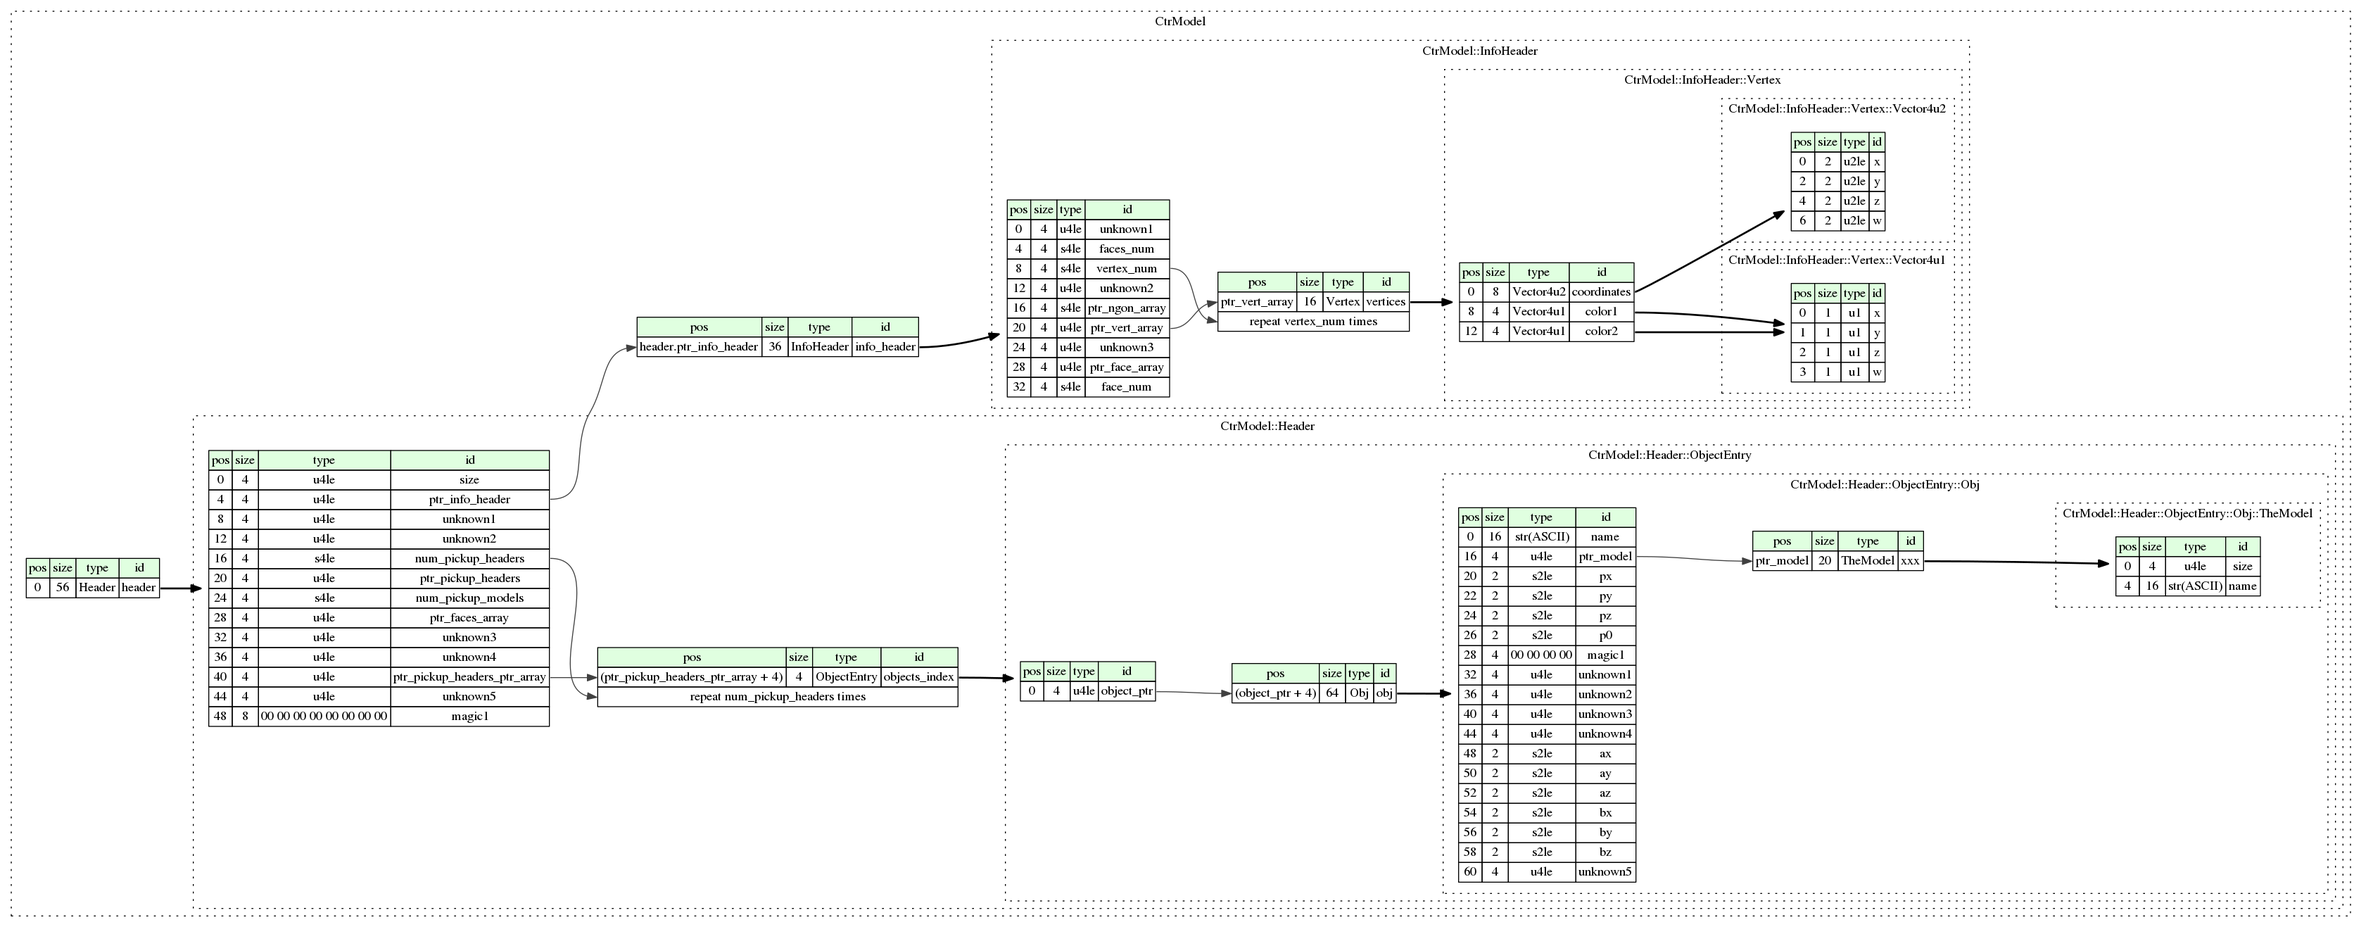
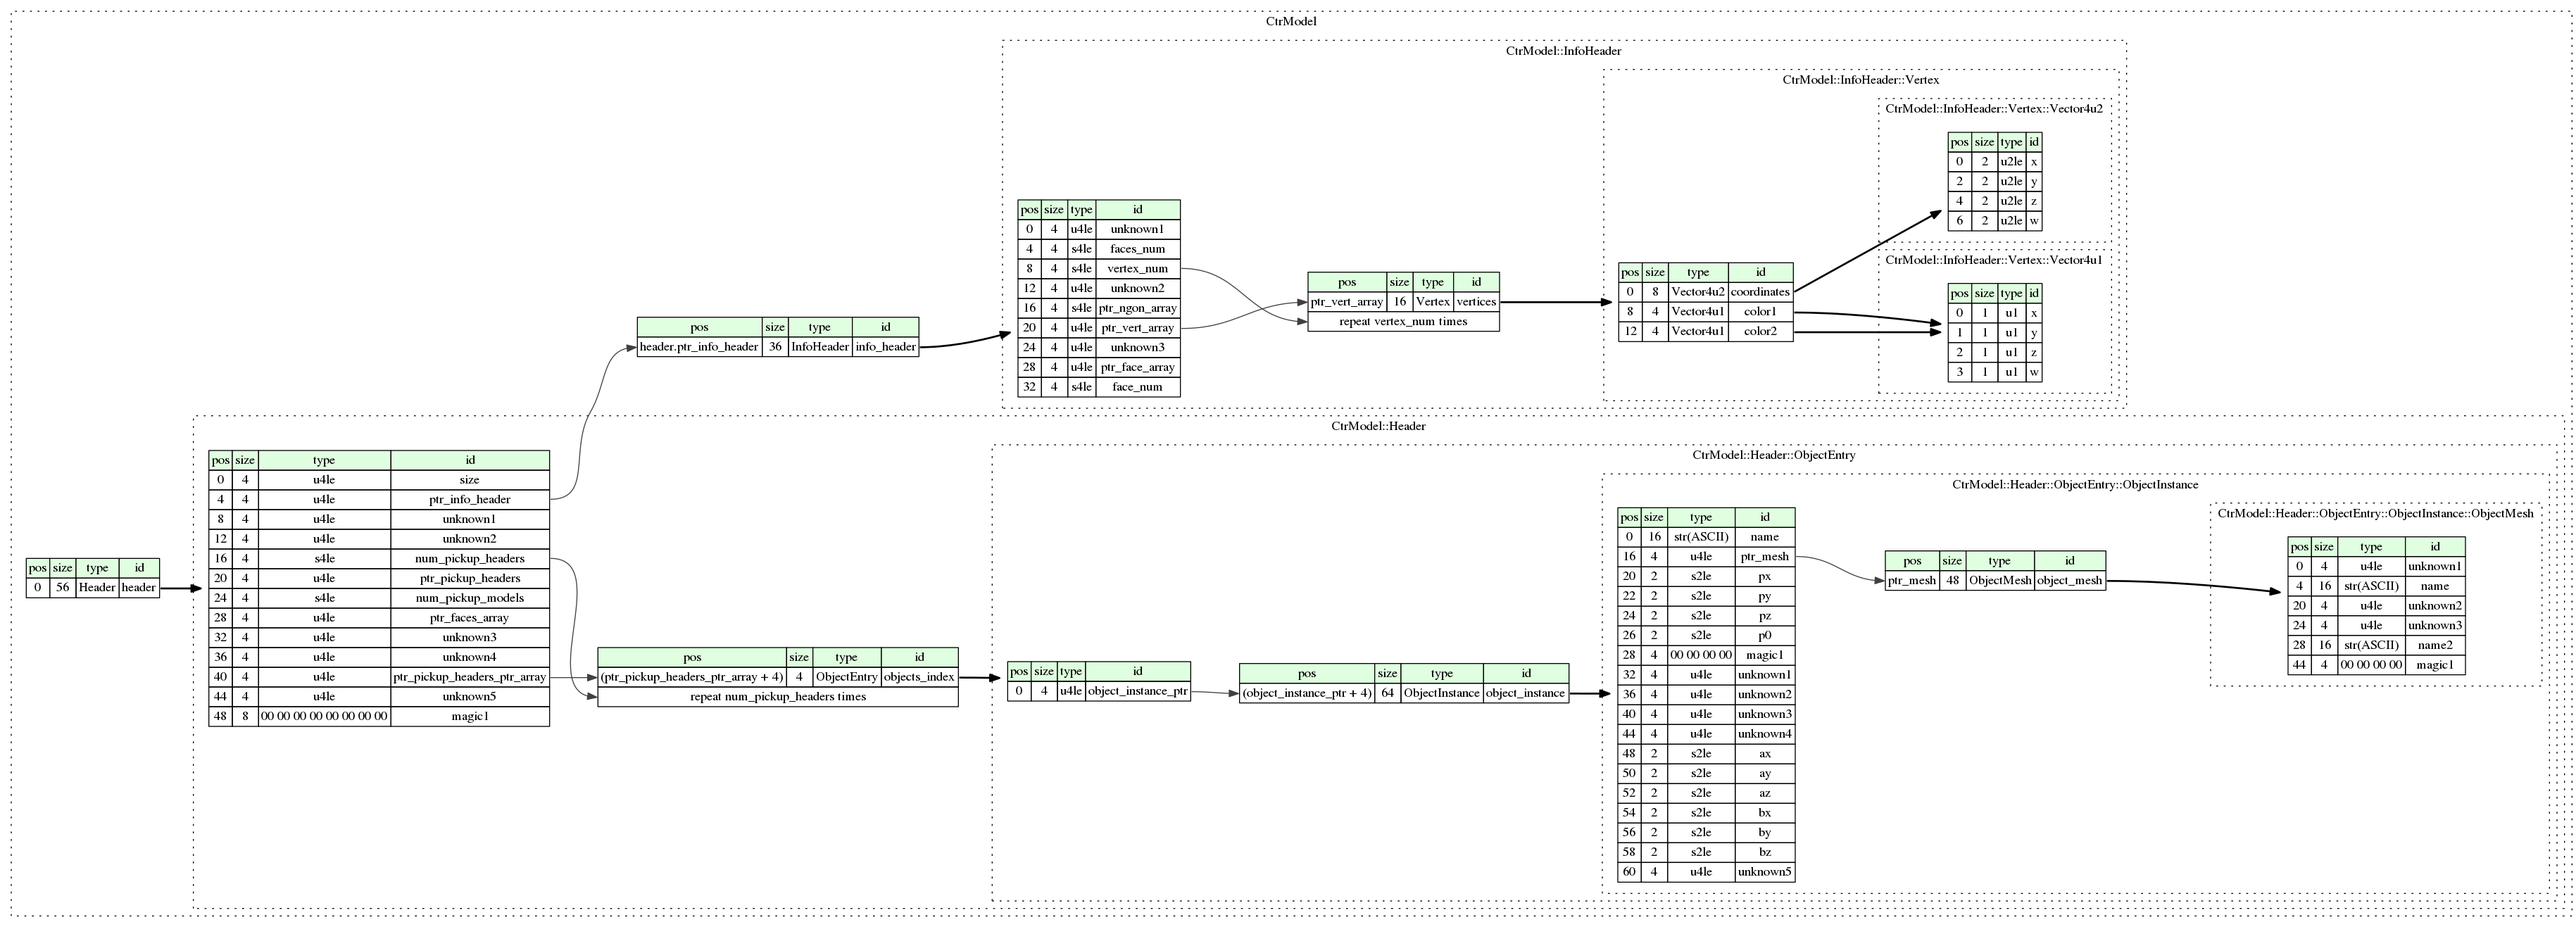
better names

diff --git a/csharp/ctr/CtrModel.cs b/csharp/ctr/CtrModel.cs
@@ -70,31 +70,31 @@ namespace ctr
                 {
                     m_parent = p__parent;
                     m_root = p__root;
-                    f_obj = false;
+                    f_objectInstance = false;
                     _read();
                 }
                 private void _read()
                 {
-                    _objectPtr = m_io.ReadU4le();
+                    _objectInstancePtr = m_io.ReadU4le();
                 }
-                public partial class Obj : KaitaiStruct
+                public partial class ObjectInstance : KaitaiStruct
                 {
-                    public static Obj FromFile(string fileName)
+                    public static ObjectInstance FromFile(string fileName)
                     {
-                        return new Obj(new KaitaiStream(fileName));
+                        return new ObjectInstance(new KaitaiStream(fileName));
                     }
 
-                    public Obj(KaitaiStream p__io, CtrModel.Header.ObjectEntry p__parent = null, CtrModel p__root = null) : base(p__io)
+                    public ObjectInstance(KaitaiStream p__io, CtrModel.Header.ObjectEntry p__parent = null, CtrModel p__root = null) : base(p__io)
                     {
                         m_parent = p__parent;
                         m_root = p__root;
-                        f_xxx = false;
+                        f_objectMesh = false;
                         _read();
                     }
                     private void _read()
                     {
                         _name = System.Text.Encoding.GetEncoding("ASCII").GetString(m_io.ReadBytes(16));
-                        _ptrModel = m_io.ReadU4le();
+                        _ptrMesh = m_io.ReadU4le();
                         _px = m_io.ReadS2le();
                         _py = m_io.ReadS2le();
                         _pz = m_io.ReadS2le();
@@ -112,14 +112,14 @@ namespace ctr
                         _bz = m_io.ReadS2le();
                         _unknown5 = m_io.ReadU4le();
                     }
-                    public partial class TheModel : KaitaiStruct
+                    public partial class ObjectMesh : KaitaiStruct
                     {
-                        public static TheModel FromFile(string fileName)
+                        public static ObjectMesh FromFile(string fileName)
                         {
-                            return new TheModel(new KaitaiStream(fileName));
+                            return new ObjectMesh(new KaitaiStream(fileName));
                         }
 
-                        public TheModel(KaitaiStream p__io, CtrModel.Header.ObjectEntry.Obj p__parent = null, CtrModel p__root = null) : base(p__io)
+                        public ObjectMesh(KaitaiStream p__io, CtrModel.Header.ObjectEntry.ObjectInstance p__parent = null, CtrModel p__root = null) : base(p__io)
                         {
                             m_parent = p__parent;
                             m_root = p__root;
@@ -127,36 +127,48 @@ namespace ctr
                         }
                         private void _read()
                         {
-                            _size = m_io.ReadU4le();
+                            _unknown1 = m_io.ReadU4le();
                             _name = System.Text.Encoding.GetEncoding("ASCII").GetString(m_io.ReadBytes(16));
+                            _unknown2 = m_io.ReadU4le();
+                            _unknown3 = m_io.ReadU4le();
+                            _name2 = System.Text.Encoding.GetEncoding("ASCII").GetString(m_io.ReadBytes(16));
+                            _magic1 = m_io.EnsureFixedContents(new byte[] { 0, 0, 0, 0 });
                         }
-                        private uint _size;
+                        private uint _unknown1;
                         private string _name;
+                        private uint _unknown2;
+                        private uint _unknown3;
+                        private string _name2;
+                        private byte[] _magic1;
                         private CtrModel m_root;
-                        private CtrModel.Header.ObjectEntry.Obj m_parent;
-                        public uint Size { get { return _size; } }
+                        private CtrModel.Header.ObjectEntry.ObjectInstance m_parent;
+                        public uint Unknown1 { get { return _unknown1; } }
                         public string Name { get { return _name; } }
+                        public uint Unknown2 { get { return _unknown2; } }
+                        public uint Unknown3 { get { return _unknown3; } }
+                        public string Name2 { get { return _name2; } }
+                        public byte[] Magic1 { get { return _magic1; } }
                         public CtrModel M_Root { get { return m_root; } }
-                        public CtrModel.Header.ObjectEntry.Obj M_Parent { get { return m_parent; } }
+                        public CtrModel.Header.ObjectEntry.ObjectInstance M_Parent { get { return m_parent; } }
                     }
-                    private bool f_xxx;
-                    private TheModel _xxx;
-                    public TheModel Xxx
+                    private bool f_objectMesh;
+                    private ObjectMesh _objectMesh;
+                    public ObjectMesh ObjectMesh
                     {
                         get
                         {
-                            if (f_xxx)
-                                return _xxx;
+                            if (f_objectMesh)
+                                return _objectMesh;
                             long _pos = m_io.Pos;
-                            m_io.Seek(PtrModel);
-                            _xxx = new TheModel(m_io, this, m_root);
+                            m_io.Seek(PtrMesh);
+                            _objectMesh = new ObjectMesh(m_io, this, m_root);
                             m_io.Seek(_pos);
-                            f_xxx = true;
-                            return _xxx;
+                            f_objectMesh = true;
+                            return _objectMesh;
                         }
                     }
                     private string _name;
-                    private uint _ptrModel;
+                    private uint _ptrMesh;
                     private short _px;
                     private short _py;
                     private short _pz;
@@ -176,7 +188,7 @@ namespace ctr
                     private CtrModel m_root;
                     private CtrModel.Header.ObjectEntry m_parent;
                     public string Name { get { return _name; } }
-                    public uint PtrModel { get { return _ptrModel; } }
+                    public uint PtrMesh { get { return _ptrMesh; } }
                     public short Px { get { return _px; } }
                     public short Py { get { return _py; } }
                     public short Pz { get { return _pz; } }
@@ -196,26 +208,26 @@ namespace ctr
                     public CtrModel M_Root { get { return m_root; } }
                     public CtrModel.Header.ObjectEntry M_Parent { get { return m_parent; } }
                 }
-                private bool f_obj;
-                private Obj _obj;
-                public Obj Obj
+                private bool f_objectInstance;
+                private ObjectInstance _objectInstance;
+                public ObjectInstance ObjectInstance
                 {
                     get
                     {
-                        if (f_obj)
-                            return _obj;
+                        if (f_objectInstance)
+                            return _objectInstance;
                         long _pos = m_io.Pos;
-                        m_io.Seek((ObjectPtr + 4));
-                        _obj = new Obj(m_io, this, m_root);
+                        m_io.Seek((ObjectInstancePtr + 4));
+                        _objectInstance = new ObjectInstance(m_io, this, m_root);
                         m_io.Seek(_pos);
-                        f_obj = true;
-                        return _obj;
+                        f_objectInstance = true;
+                        return _objectInstance;
                     }
                 }
-                private uint _objectPtr;
+                private uint _objectInstancePtr;
                 private CtrModel m_root;
                 private CtrModel.Header m_parent;
-                public uint ObjectPtr { get { return _objectPtr; } }
+                public uint ObjectInstancePtr { get { return _objectInstancePtr; } }
                 public CtrModel M_Root { get { return m_root; } }
                 public CtrModel.Header M_Parent { get { return m_parent; } }
             }

diff --git a/python/ctr/ctr_model.py b/python/ctr/ctr_model.py
@@ -51,9 +51,9 @@ class CtrModel(KaitaiStruct):
                 self._read()
 
             def _read(self):
-                self.object_ptr = self._io.read_u4le()
+                self.object_instance_ptr = self._io.read_u4le()
 
-            class Obj(KaitaiStruct):
+            class ObjectInstance(KaitaiStruct):
                 def __init__(self, _io, _parent=None, _root=None):
                     self._io = _io
                     self._parent = _parent
@@ -62,7 +62,7 @@ class CtrModel(KaitaiStruct):
 
                 def _read(self):
                     self.name = (self._io.read_bytes(16)).decode(u"ASCII")
-                    self.ptr_model = self._io.read_u4le()
+                    self.ptr_mesh = self._io.read_u4le()
                     self.px = self._io.read_s2le()
                     self.py = self._io.read_s2le()
                     self.pz = self._io.read_s2le()
@@ -80,7 +80,7 @@ class CtrModel(KaitaiStruct):
                     self.bz = self._io.read_s2le()
                     self.unknown5 = self._io.read_u4le()
 
-                class TheModel(KaitaiStruct):
+                class ObjectMesh(KaitaiStruct):
                     def __init__(self, _io, _parent=None, _root=None):
                         self._io = _io
                         self._parent = _parent
@@ -88,32 +88,36 @@ class CtrModel(KaitaiStruct):
                         self._read()
 
                     def _read(self):
-                        self.size = self._io.read_u4le()
+                        self.unknown1 = self._io.read_u4le()
                         self.name = (self._io.read_bytes(16)).decode(u"ASCII")
+                        self.unknown2 = self._io.read_u4le()
+                        self.unknown3 = self._io.read_u4le()
+                        self.name2 = (self._io.read_bytes(16)).decode(u"ASCII")
+                        self.magic1 = self._io.ensure_fixed_contents(b"\x00\x00\x00\x00")
 
 
                 @property
-                def xxx(self):
-                    if hasattr(self, '_m_xxx'):
-                        return self._m_xxx if hasattr(self, '_m_xxx') else None
+                def object_mesh(self):
+                    if hasattr(self, '_m_object_mesh'):
+                        return self._m_object_mesh if hasattr(self, '_m_object_mesh') else None
 
                     _pos = self._io.pos()
-                    self._io.seek(self.ptr_model)
-                    self._m_xxx = self._root.Header.ObjectEntry.Obj.TheModel(self._io, self, self._root)
+                    self._io.seek(self.ptr_mesh)
+                    self._m_object_mesh = self._root.Header.ObjectEntry.ObjectInstance.ObjectMesh(self._io, self, self._root)
                     self._io.seek(_pos)
-                    return self._m_xxx if hasattr(self, '_m_xxx') else None
+                    return self._m_object_mesh if hasattr(self, '_m_object_mesh') else None
 
 
             @property
-            def obj(self):
-                if hasattr(self, '_m_obj'):
-                    return self._m_obj if hasattr(self, '_m_obj') else None
+            def object_instance(self):
+                if hasattr(self, '_m_object_instance'):
+                    return self._m_object_instance if hasattr(self, '_m_object_instance') else None
 
                 _pos = self._io.pos()
-                self._io.seek((self.object_ptr + 4))
-                self._m_obj = self._root.Header.ObjectEntry.Obj(self._io, self, self._root)
+                self._io.seek((self.object_instance_ptr + 4))
+                self._m_object_instance = self._root.Header.ObjectEntry.ObjectInstance(self._io, self, self._root)
                 self._io.seek(_pos)
-                return self._m_obj if hasattr(self, '_m_obj') else None
+                return self._m_object_instance if hasattr(self, '_m_object_instance') else None
 
 
         @property
